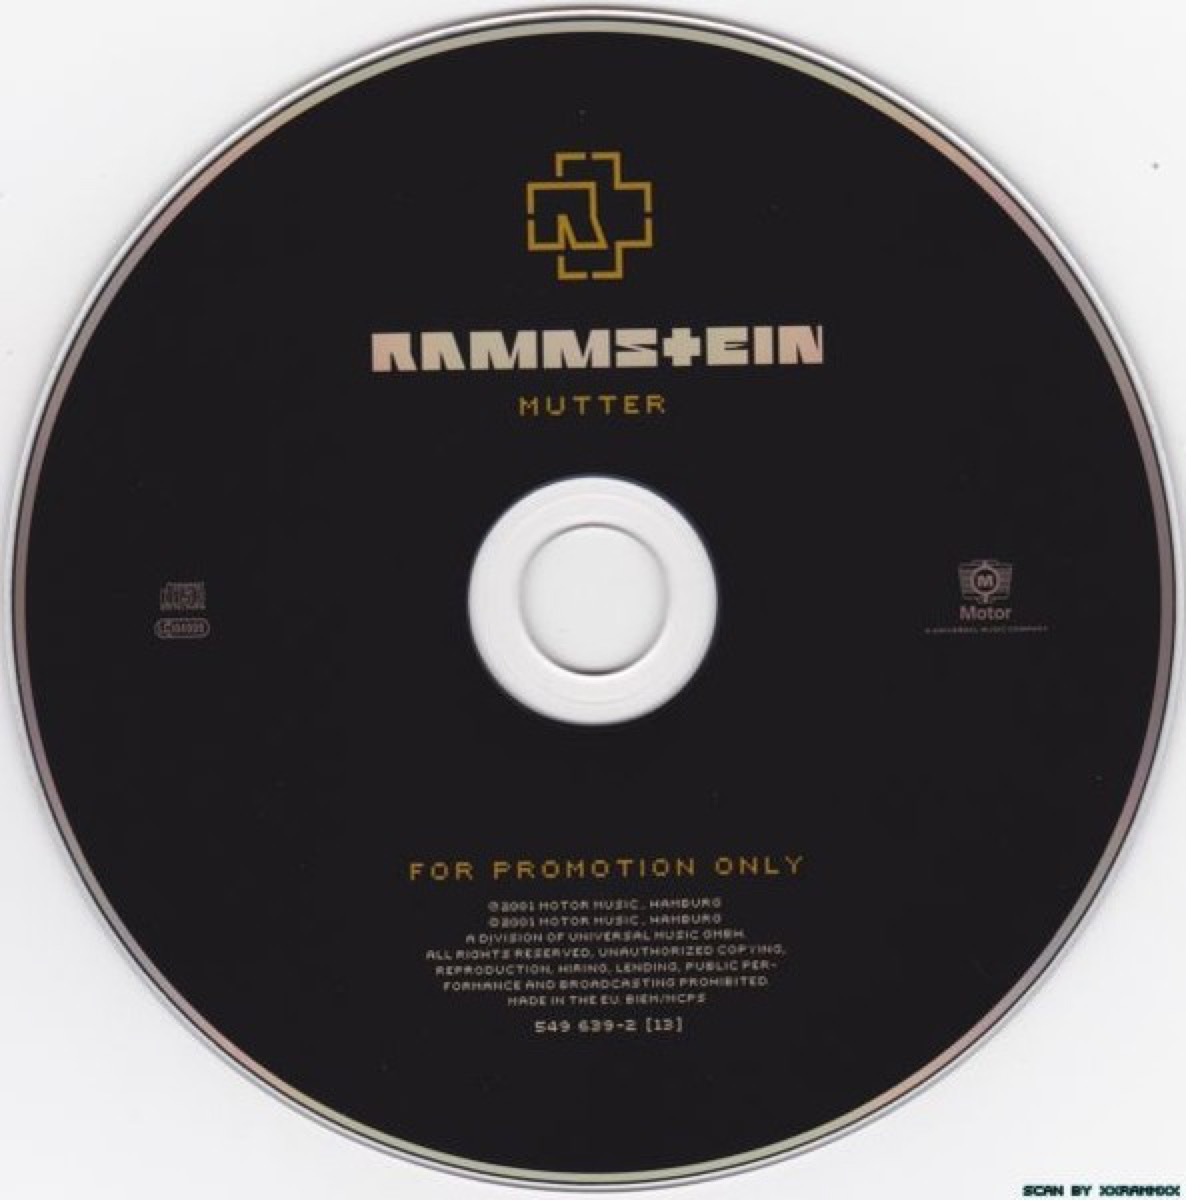
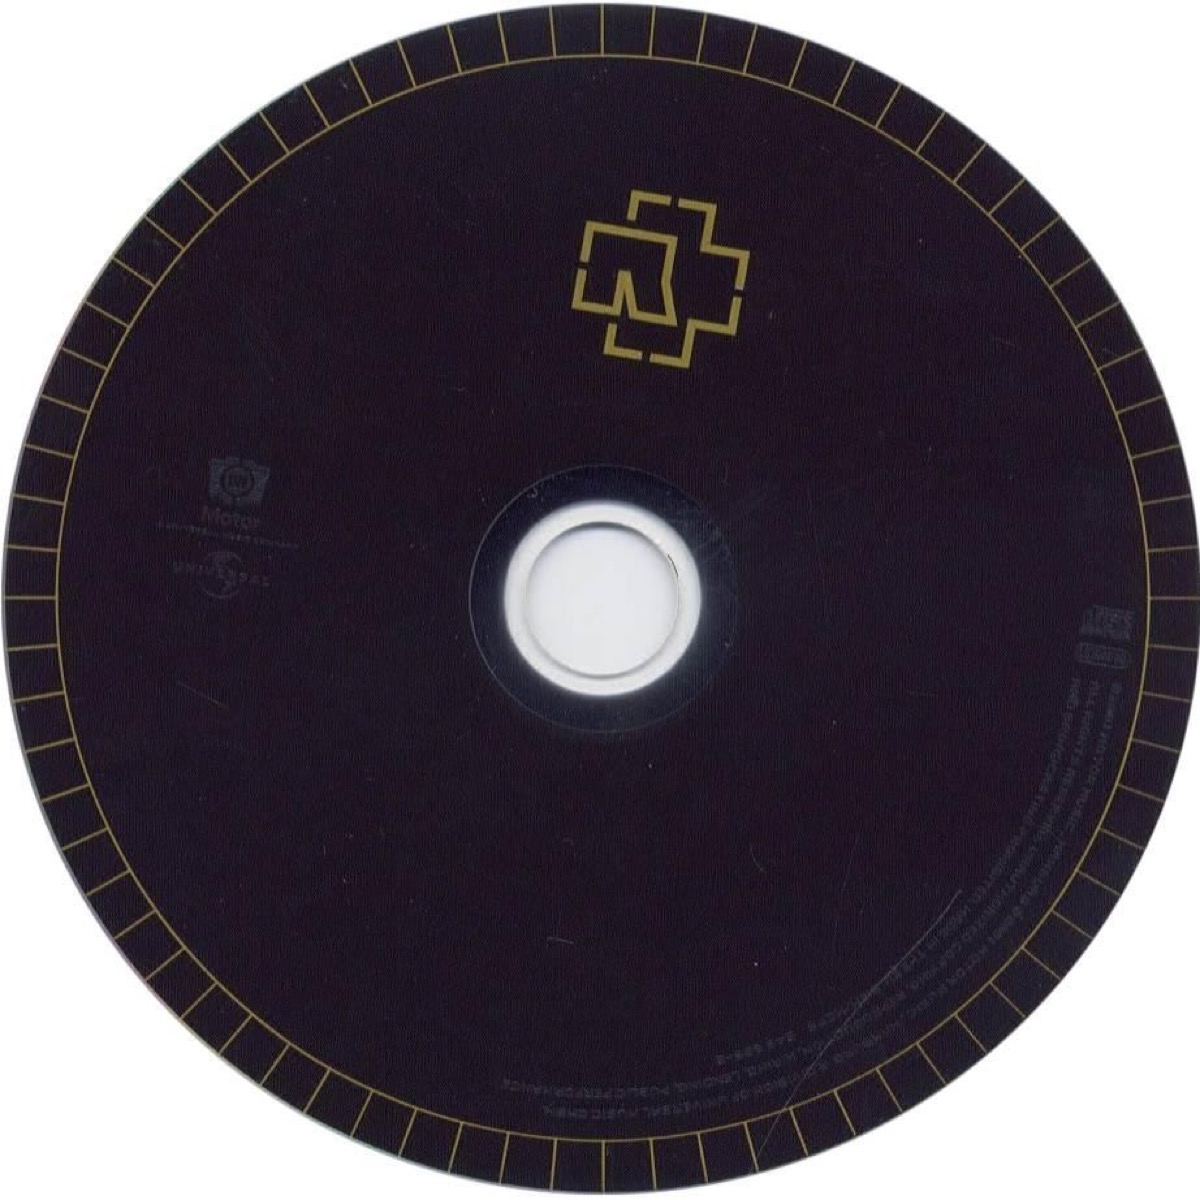
Mutter from a retail CD; download script skips promos
Mutter's disc and back came from a promotional pressing ("FOR PROMOTION
ONLY" on the disc) after a Cover Art Archive error made the retry fall
through to it. Pin the Finnish launch-day jewel case CD instead, and
have the download script consider only releases MusicBrainz marks
Official.

diff --git a/ROADMAP.md b/ROADMAP.md
@@ -500,6 +500,10 @@ colour; `color` and `accent` were picked from each cover. Fixes after a visual c
   plus 12 booklet scans for phase 2a).
 - Rosenrot: every archived back is a digipak's whole outside; pinned to `bf7c54d3` and the left
   half kept, which is the back panel (spines are generated).
+- Mutter: the scans came from a promotional pressing (`dbc3dfab`, "FOR PROMOTION ONLY" on the
+  disc) after the first download hit a Cover Art Archive error and the retry fell through to it.
+  Pinned to the Finnish launch-day jewel case CD (`eed328a1`, 2 April 2001: disc, back with spines,
+  8 booklet scans). The script now also skips anything MusicBrainz doesn't mark Official.
 - Silent Shout: the release group's front is 350 px; the 500 px front of the 2006 US CD is used. A
   1426 px Australian scan was tried and rejected: a different, much darker print that read as a
   black square.
@@ -543,9 +547,6 @@ Possible latent issues the types exposed, left as they were:
 - `endPress` reads `this.cases[spinning]` without a guard; `setAlbums` with fewer albums during a
   drag would throw. (Nothing calls `setAlbums` after construction today.)
 - `destroy()` calls `setAlbums([])`, which reports `onProgress(0, 0)`.
-- Mutter's disc scan is a promotional pressing ("FOR PROMOTION ONLY", release `dbc3dfab`): the
-  first download hit a Cover Art Archive error and the retry fell through to it. Pin a retail
-  single-CD release to replace it.
 - `removeEventListener(…, { passive: false })`: `passive` is ignored there (harmless).
 - The last branch of `makeFallbackArt` only runs for a motif outside the `Motif` type.
 
